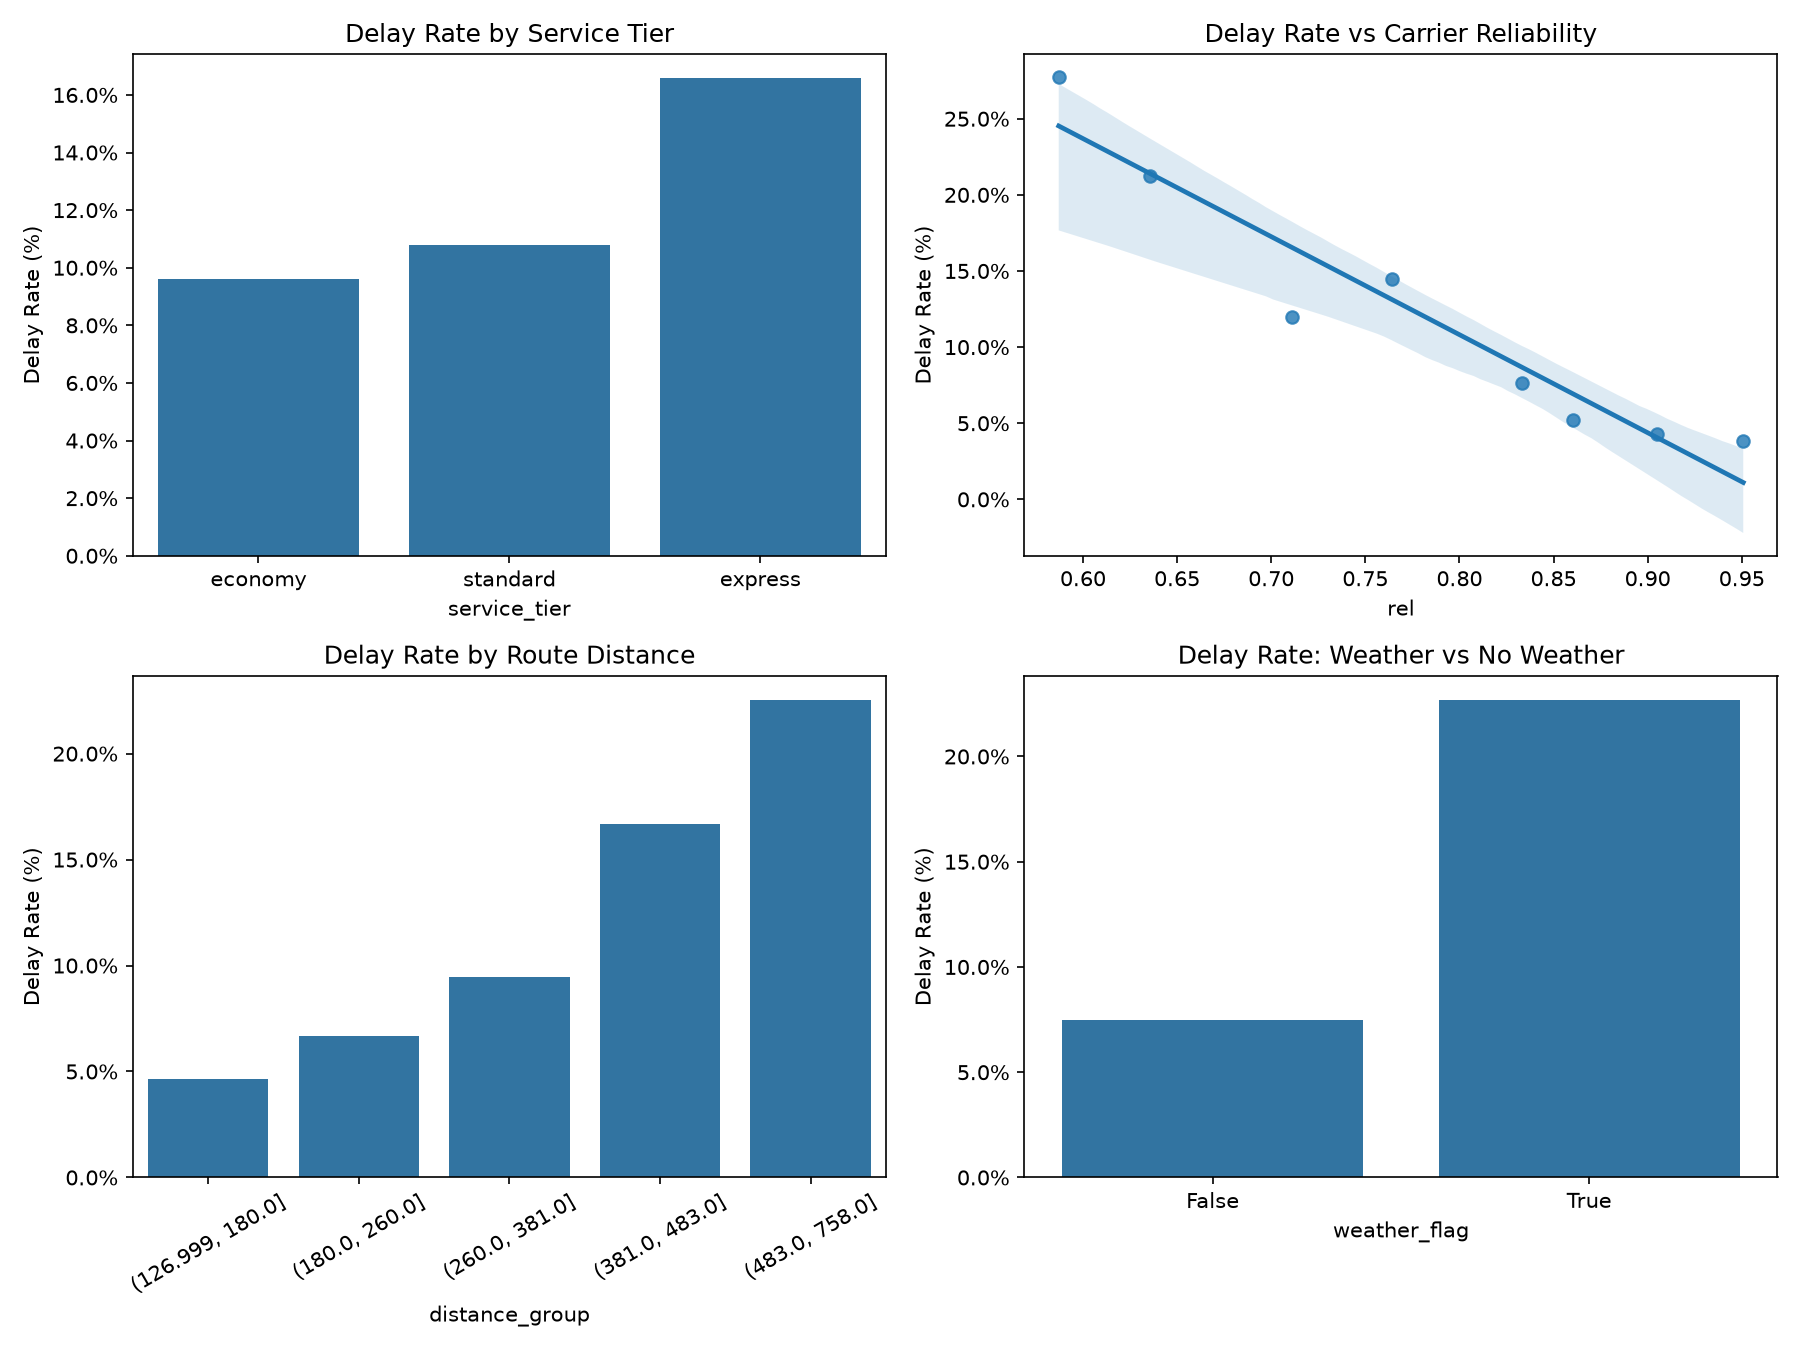
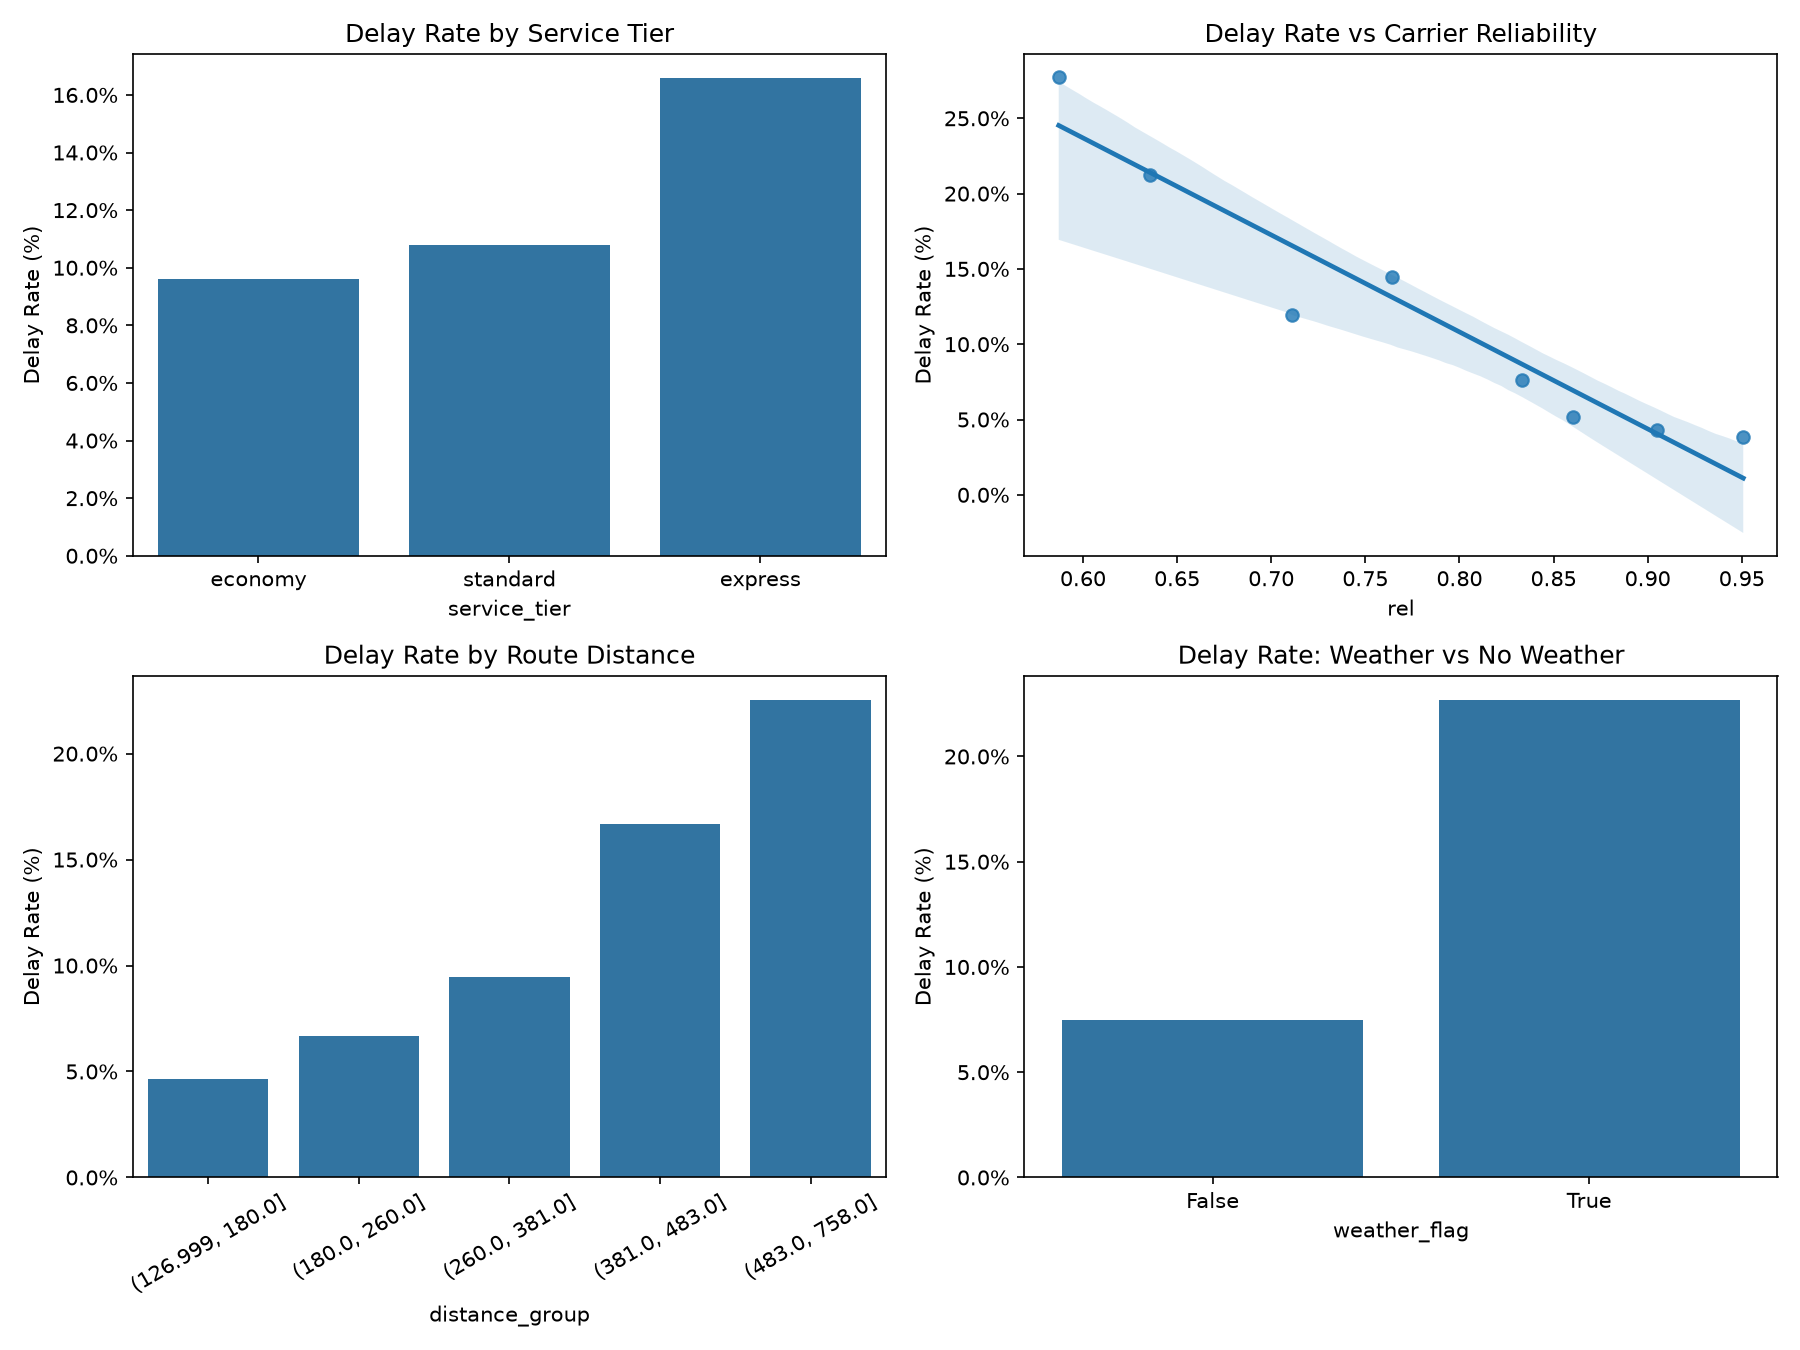
add route and carrier risk commentary

diff --git a/swiftroute/plots.py b/swiftroute/plots.py
@@ -88,3 +88,47 @@ def plot_delay_factors(data: dict[str, pd.DataFrame]) -> pd.DataFrame:
     plt.show()
 
     return df
+
+
+def plot_risky_routes_carriers(data: dict[str, pd.DataFrame]) -> pd.DataFrame:
+    shipments, routes = data["shipments"], data["routes"]
+
+    # Delay rate and number of shipments per route
+    route_risk = (
+        shipments.groupby(["route_id", "origin_region", "dest_region"], as_index=False)
+        .agg(delay_rate=("is_delayed", "mean"), n=("is_delayed", "size"))
+    )
+    route_risk["route"] = route_risk["origin_region"] + " → " + route_risk["dest_region"] + " (" + route_risk["route_id"].astype(str) + ")"
+    top10 = route_risk[route_risk["n"] >= 30].nlargest(10, "delay_rate")
+
+    # Delay rate by carrier
+    carrier_risk = (shipments.groupby("carrier_id")["is_delayed"].mean().sort_values(ascending=False).reset_index(name="delay_rate"))
+
+    # Delay rate by origin and destination
+    pivot = shipments.pivot_table(index="origin_region", columns="dest_region", values="is_delayed", aggfunc="mean")
+
+    fig, axes = plt.subplots(1, 3, figsize=(20, 6))
+
+    # Top 10 highest-delay routes
+    sns.barplot(data=top10, x="delay_rate", y="route", errorbar=None, ax=axes[0])
+    axes[0].set_title("Top 10 Highest-Delay Routes (n >= 30)")
+    axes[0].xaxis.set_major_formatter(PercentFormatter(1.0))
+    axes[0].set_xlabel("Delay Rate (%)")
+
+    # Delay rate by carrier
+    sns.barplot(data=carrier_risk, x="carrier_id", y="delay_rate", errorbar=None, ax=axes[1])
+    axes[1].set_title("Delay Rate by Carrier")
+    axes[1].yaxis.set_major_formatter(PercentFormatter(1.0))
+    axes[1].set_ylabel("Delay Rate (%)")
+
+    # Origin x destination heatmap
+    sns.heatmap(pivot, annot=True, fmt=".1%", cmap="Reds", ax=axes[2])
+    axes[2].set_title("Delay Rate by Origin and Destination")
+    axes[2].tick_params(axis="x", rotation=45)
+
+    fig.tight_layout()
+    FIGURES_DIR.mkdir(parents=True, exist_ok=True)
+    fig.savefig(FIGURES_DIR / "risky_routes_carriers.png", dpi=150)
+    plt.show()
+
+    return route_risk
